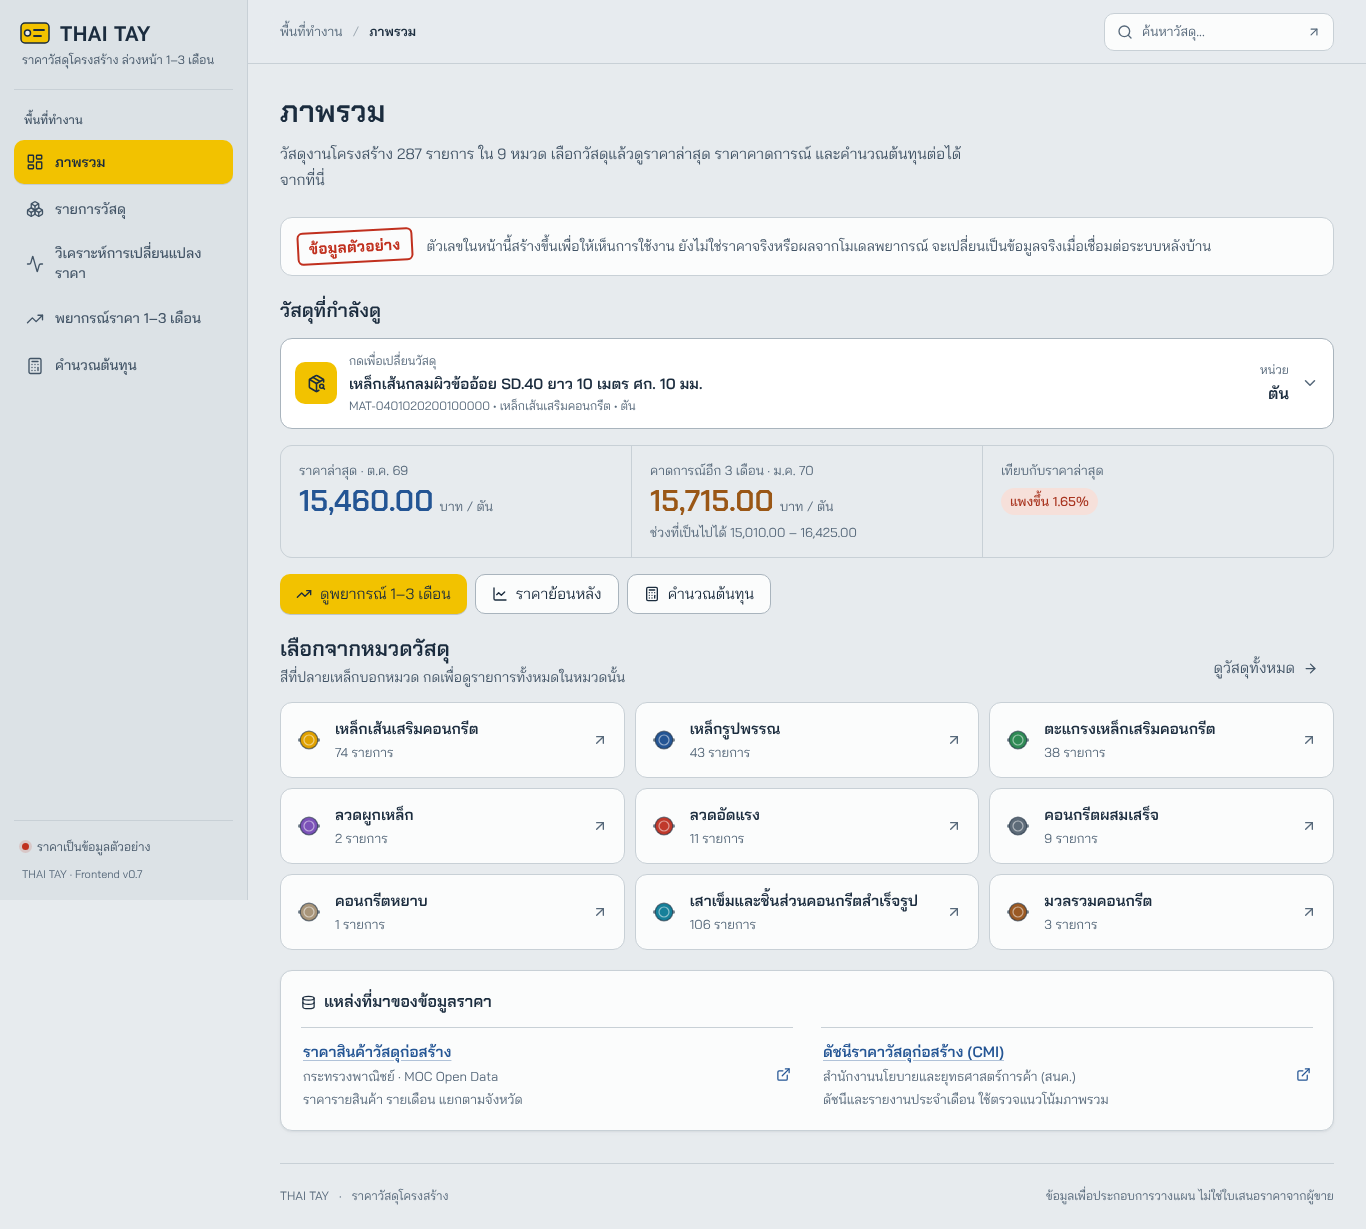
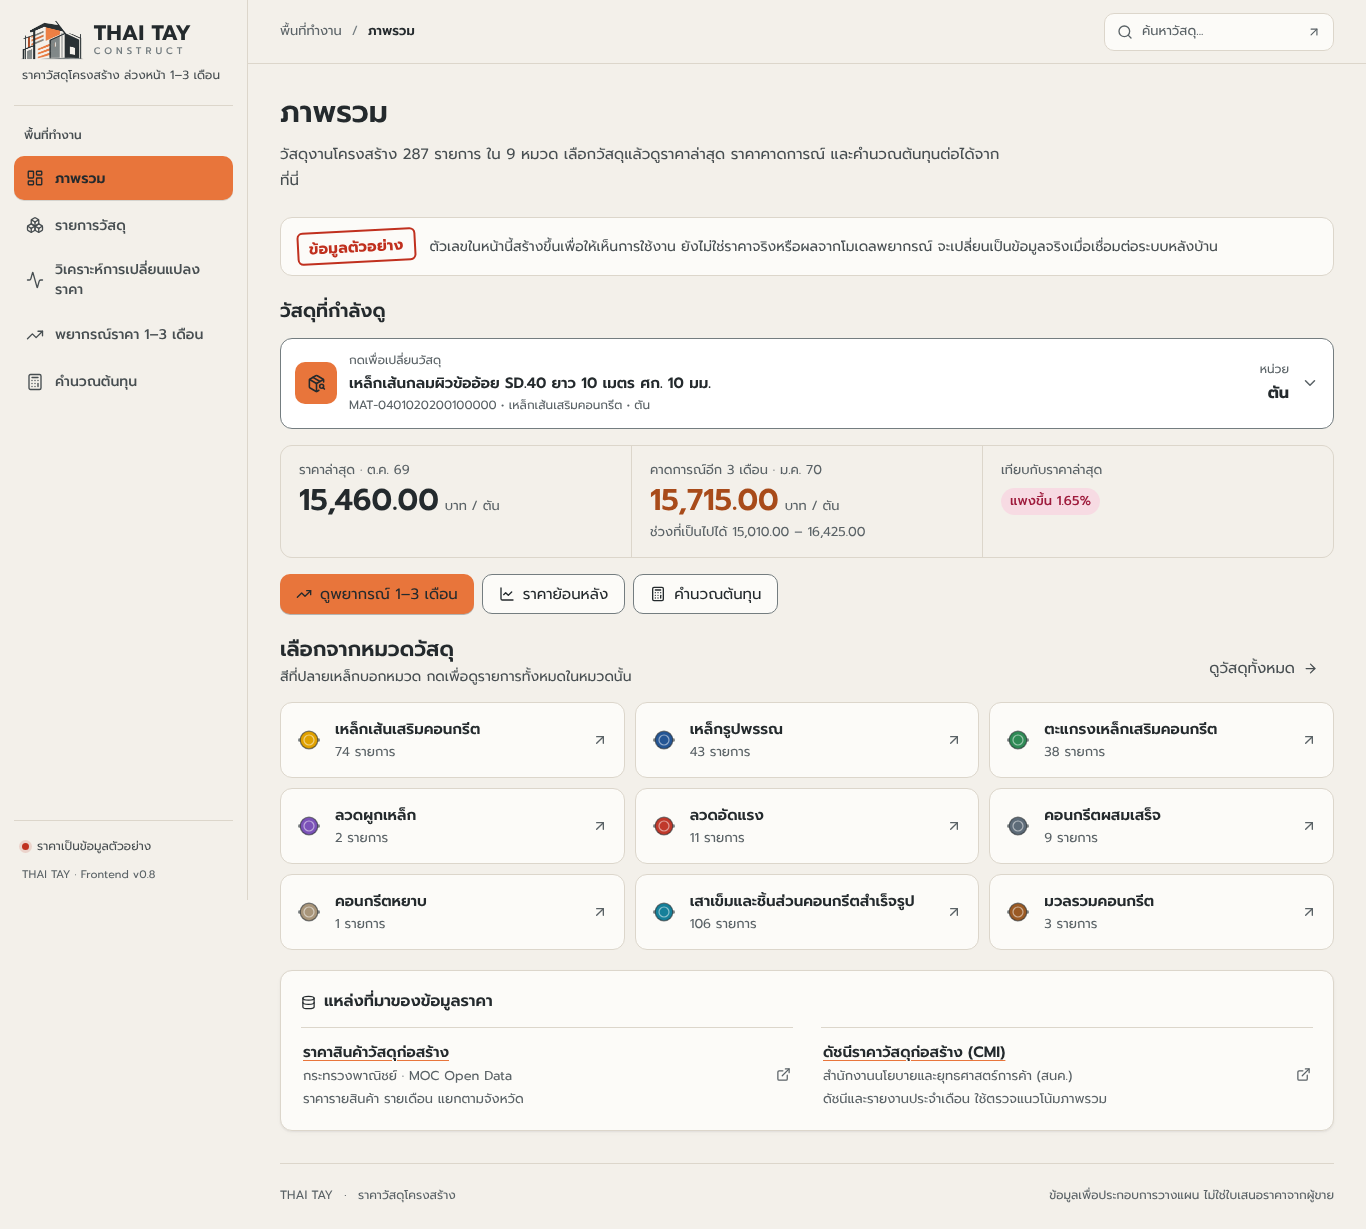
Refresh preview screenshots and verification for v0.8
Claude-Session: https://claude.ai/code/session_01PZGcVyYfXFNvLBhXnb2rxj

diff --git a/preview/verification.md b/preview/verification.md
@@ -1,4 +1,4 @@
-# ผลตรวจ THAI TAY Frontend v0.7
+# ผลตรวจ THAI TAY Frontend v0.8
 
 - `npm run build`: ผ่าน TypeScript และ Vite build
 - Catalog: วัสดุโครงสร้าง 287 รายการใน 9 หมวด ไม่มีฟิลด์ราคาใน catalog (`frontend-catalog-results.json`)
@@ -10,11 +10,13 @@
 - พื้นที่ทำงาน: ป้าย 1/2/3 เดือนเลือกช่วงในกราฟได้, การ์ดหมวดเปิดรายการที่กรองแล้ว, ชิป "ทุกหมวด" ล้างตัวกรอง, กดโลโก้กลับหน้าแรก, hash ที่ไม่รู้จักเปิดภาพรวม, sidebar มือถือปิดด้วย Esc
 - สีทุกคู่ที่ใช้ผ่าน contrast WCAG AA (ตัวอักษรปกติ ≥ 4.5:1)
 - ตัวตรวจจับปัญหาการออกแบบ (impeccable detect) ไม่พบปัญหา
-- รีวิวงานออกแบบโดยผู้ตรวจอิสระ 3 รอบ: รอบแรก "fix" 8 ข้อ, รอบสอง แก้ครบบางส่วน + 3 ปัญหาใหม่, รอบสาม "ship" (ขอบเขต: ข้อที่ให้คะแนน)
+- v0.7: รีวิวงานออกแบบโดยผู้ตรวจอิสระ 3 รอบ จบที่ "ship" (ขอบเขต: ข้อที่ให้คะแนน)
+- v0.8 (โลโก้และสีแบรนด์): ผู้ตรวจอิสระให้ "fix" 7 ข้อ (Concrete Gray, ขอบช่องกรอก, เส้นคาดการณ์, สี "แพงขึ้น", ไอคอน, DESIGN.md, โลโก้บนหน้าต้อนรับ) รอบสองแก้ครบ 6 ข้อโดยไม่มีปัญหาใหม่ ข้อสุดท้ายคือเขียน DESIGN.md ใหม่ให้ตรงกับธีมแบรนด์
+- โลโก้/ไอคอนจาก brand board ฝังที่มาไว้ในไฟล์ภาพทุกไฟล์ (impeccable embed-prompt --scan: 0 missing)
 
 รายการตรวจทั้งหมด: `frontend-ui-results.json`
 
-ภาพตัวอย่าง (ถ่ายจาก build v0.7):
+ภาพตัวอย่าง (ถ่ายจาก build v0.8):
 
 | ไฟล์ | หน้า | ความกว้าง |
 |---|---|---|
